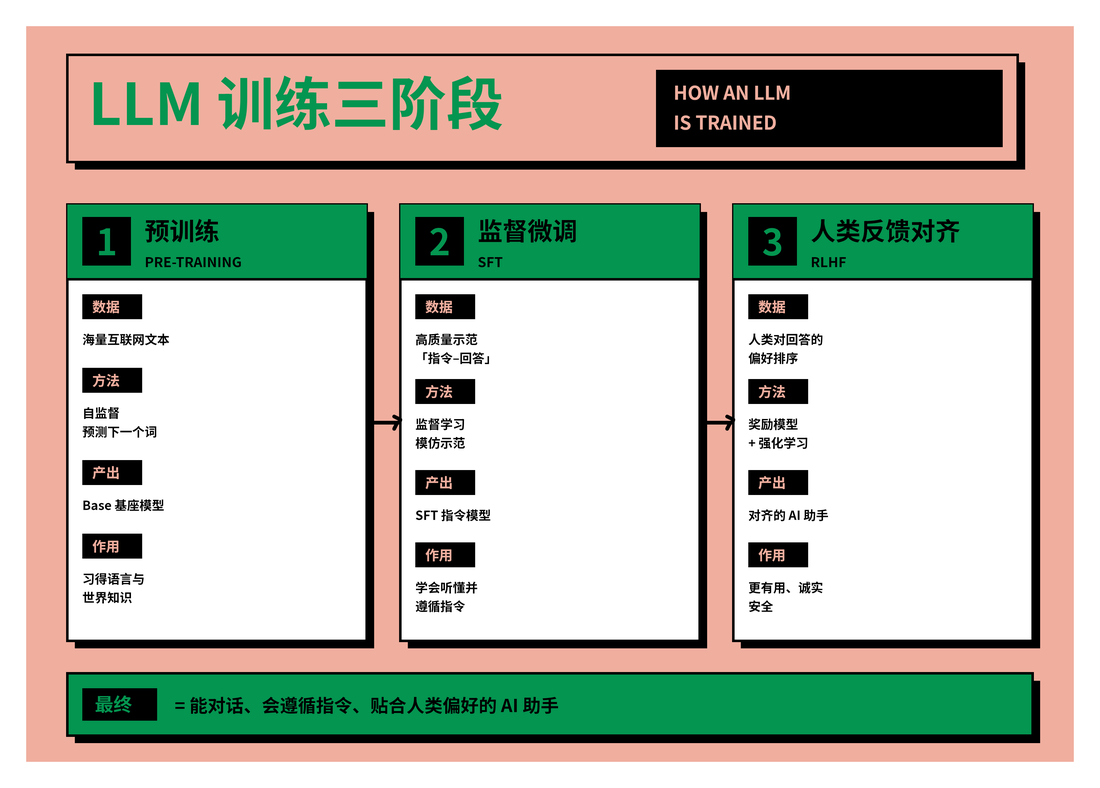
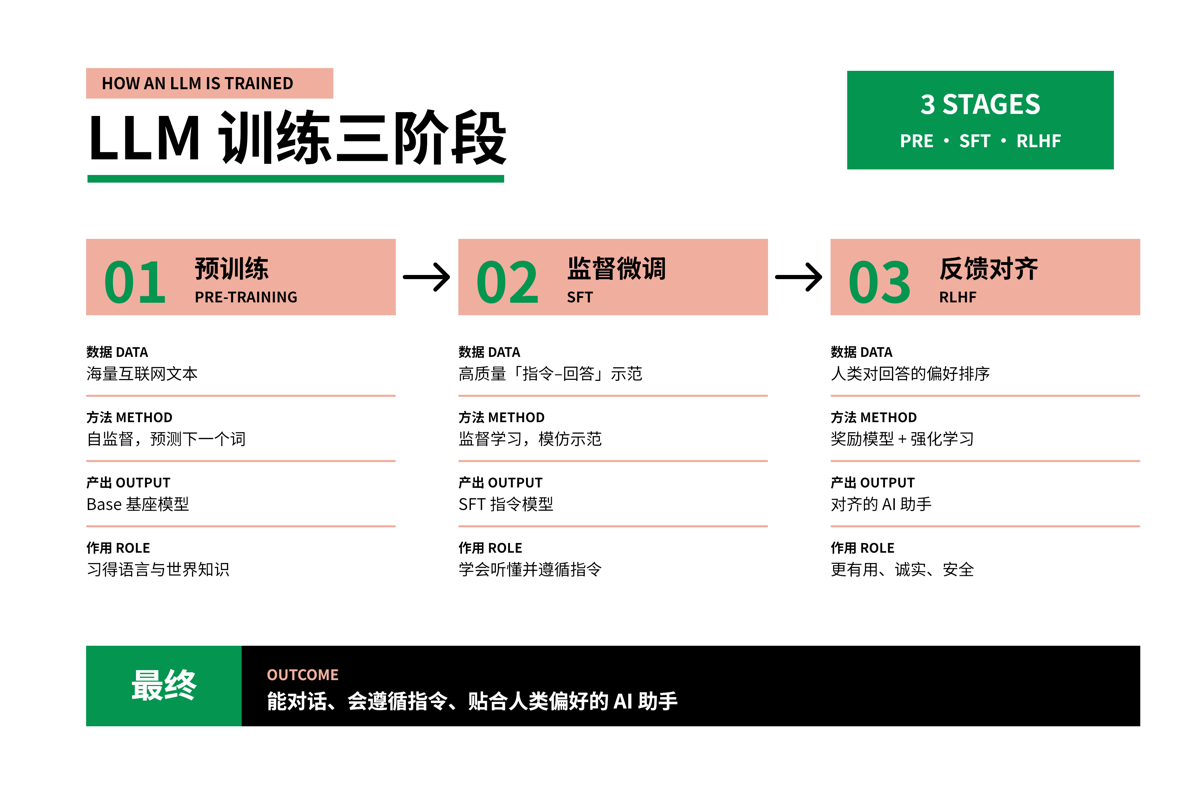
Salmon Stamp: adopt the cleaner white-background version
White page with salmon + grass-green accents and black type; salmon
colour-blocks carry the structure instead of heavy frames. Update the
design.md, catalogue line, and gallery thumbnail.

diff --git a/templates/salmon-stamp/design.md b/templates/salmon-stamp/design.md
@@ -3,51 +3,51 @@ version: 1.0
 name: Salmon Stamp
 renderer: feishu-svg-whiteboard
 description: >
-  A neobrutalist stamp system on a warm salmon canvas. Big black-outlined frames hold oversized green display letterforms, and a flat black backer panel sits offset behind each block to read as hard depth — never a shadow, always a solid role-swapped panel. Ink is pure black; the one loud accent is a saturated green. The register is heavy, squared, all-caps and confident. Built for explainers, processes, comparisons, and bold system maps that want a poster-like punch.
+  A clean stamp-poster palette on a white page: a warm salmon-peach and a saturated grass green as
+  the two accents, with black for type and minimal structure. Salmon color-blocks (header bands,
+  chips) carry the layout; green is the single loud accent (big numerals, a stamp block, key marks);
+  black is the type and the few rules. Bold and characterful but airy. Use the color blocks as the
+  structure, not heavy nested frames. Flat color only, no gradients.
 
 # ── COLOR ────────────────────────────────────────────────────
 colors:
-  salmon:  "#F0AE9E"   # warm salmon-peach — the canvas
-  ink:     "#000000"   # pure black — frames, ALL structure, backer panels, body text
-  green:   "#049550"   # saturated grass-green — the single loud accent: display letters, numerals, fills
-  green-2: "#04964E"   # one step of green (near-identical) — secondary green fills if two greens needed
-  paper:   "#FFFFFF"   # clean white — small-text panels that need maximum contrast
-  # ONE accent per scene (green) over salmon + black ink. The green-on-salmon clash IS the identity.
+  white:   "#FFFFFF"   # universal canvas: clean white page
+  salmon:  "#F0AE9E"   # warm salmon-peach: the main accent — header bands, chips, color blocks
+  green:   "#049550"   # saturated grass green: the single loud accent — big numerals, stamp block, key fills
+  ink:     "#000000"   # black: all body/label text, plus the few rules and any minimal framing
+  green-2: "#04964E"   # one step of green (near-identical) — only if two greens must abut
+  # White page + two accents (salmon blocks, green accent) + black type. One loud accent per scene:
+  # the green-on-salmon clash is the identity. Keep it airy; let salmon blocks do the structure.
 
-# ── TEXT COLOR (critical on a colored canvas) ────────────────
+# ── TEXT COLOR ───────────────────────────────────────────────
 text-rules:
-  on-salmon: "BLACK (ink) for any size — always reliable. GREEN only for LARGE display (≥ ~40px). Never small green text on salmon (low contrast)."
-  on-ink:    "SALMON or WHITE for LARGE/bold text; never small body on black — move small text to a salmon or white panel."
-  on-white:  "BLACK text — always crisp. Best home for any small body/label."
-  on-green:  "BLACK text — always crisp."
-
-# ── DEPTH ────────────────────────────────────────────────────
-# FLAT system — NO shadows of any kind (not blurred, not the duplicate-offset trick).
-# The signature "offset block" is a SOLID black backer panel placed behind a forward panel —
-# a panel role-swap, not a shadow. Depth = flat color blocks, black frames, backer panels, scale.
+  rule: "Body and labels are black on white and on salmon. The big display numerals and the stamp block are green. White text only on the dark outcome bar."
+  note: "Light text on the dark outcome bar reads on the live board. The image export renders text color unreliably, so judge color via --output_as raw or the live board, not the exported PNG."
 
 # ── STROKE & CORNERS ─────────────────────────────────────────
 stroke:
-  frame:  "4px solid ink"    # the square outline frame around hero/stamp blocks
-  border: "3px solid ink"    # cards, banners, step boxes
-  rule:   "3px solid ink"    # divider lines
-  radius: 0                  # everything squared — hard corners are the whole point
+  structural: "minimal. Prefer salmon color-blocks and thin rules over heavy frames; if a card needs an edge use a single 2px black border, not nested boxes"
+  rule:       "thin salmon or black rules for row dividers"
+  radius:     "low (rx 0 to 8); crisp, poster-like"
 ---
 
 # Salmon Stamp — Feishu SVG Whiteboard Design System
 
-A neobrutalist poster you can read across the room. A warm salmon field, black-outlined square
-frames, oversized green stamped letterforms, and a flat black backer panel offset behind each
-block to fake the hard "drop" of brutalist print — without any shadow.
+A clean stamp-poster on a white page: warm salmon color-blocks, a saturated grass-green accent, and
+black type. Let the salmon header bands and chips carry the structure, spend the green on the big
+numerals and a stamp block, and keep the page open. Bold and characterful, but airy, not boxed-in.
 
 ## Color
 
-The **salmon field** (`#F0AE9E`) is the canvas. **Ink** (`#000000`) is the structural color —
-every frame, border, divider, backer panel, and all body/label text. **Green** (`#049550`) is the
-single loud accent: the oversized stamp letters, big numerals, and a few key fills. **White**
-(`#FFFFFF`) is the high-contrast home for any small body text. Use only **one accent per scene** —
-the green-on-salmon clash is the whole identity; do not dilute it with extra hues. A near-identical
-`#04964E` exists only if you genuinely need two greens to abut.
+- **White** (`#FFFFFF`): The universal canvas. Clean and open. The default background.
+- **Salmon** (`#F0AE9E`): Warm salmon-peach. The main accent: stage header bands, the kicker chip, and color blocks. It does the structural work so you do not need heavy frames.
+- **Green** (`#049550`): Saturated grass green. The single loud accent: big stage numerals, a "stamp" block, and a few key fills or marks. One accent per scene, the green-on-salmon clash is the identity.
+- **Ink** (`#000000`): Black. All body and label text, the few thin rules, and any minimal framing.
+- **Green 2** (`#04964E`): A near-identical green, only if two greens must sit beside each other.
+
+Keep it airy: use the salmon color-blocks and a little black type as the structure, not nested boxes.
+Text is black on white and on salmon; the display numerals and stamp are green; white text only on a
+dark outcome bar.
 
 ## Rules
 

diff --git a/CATALOG.md b/CATALOG.md
@@ -47,7 +47,7 @@ restrained / refined / institutional.
 | [Pin & Paper](templates/pin-and-paper/) | Medium | clean, graphic, white with yellow and blue pop |
 | [Raw Grid](templates/raw-grid/) | Medium | system native, sharp, digital brutalism |
 | [Riptide Cobalt](templates/riptide-cobalt/) | Medium | bold poster, low density, high impact |
-| [Salmon Stamp](templates/salmon-stamp/) | Low | stamp and poster, bold, characterful |
+| [Salmon Stamp](templates/salmon-stamp/) | Low | clean stamp poster, white with salmon and green |
 | [Soft Editorial](templates/soft-editorial/) | Medium | warm magazine, soft pastels, gentle |
 | [Violet Marker](templates/violet-marker/) | Low | lavender, highlighter, friendly modern |
 